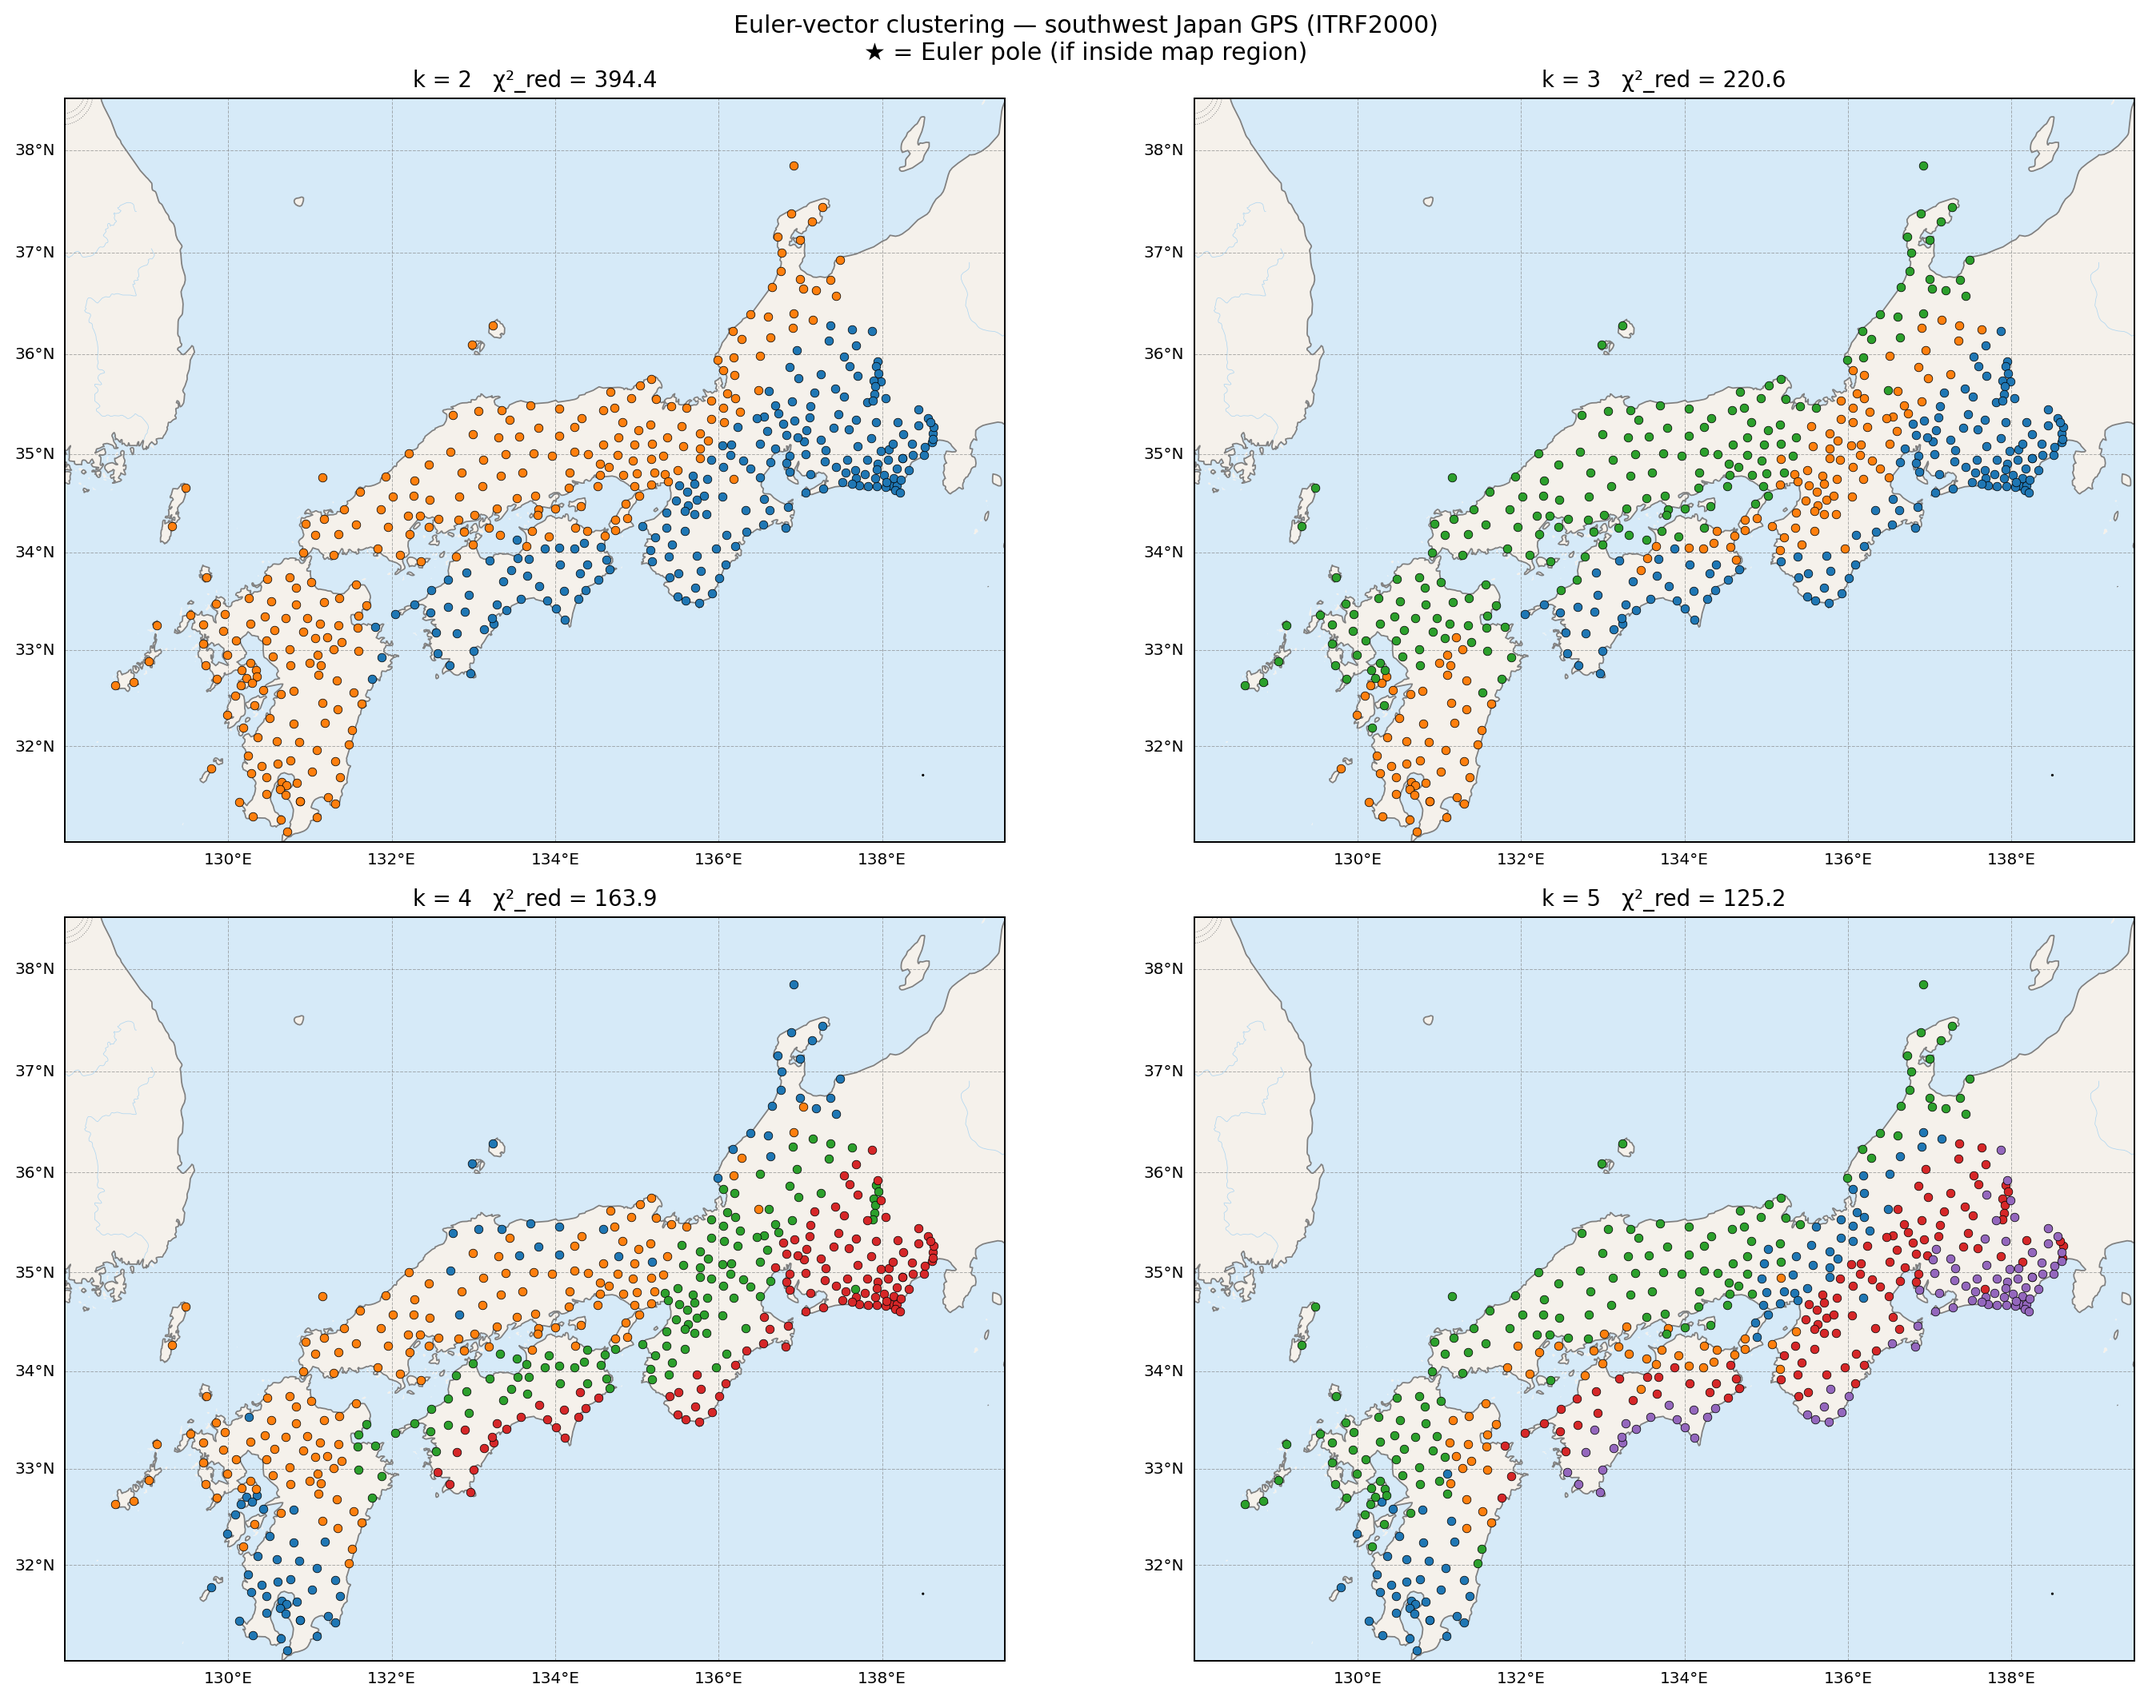
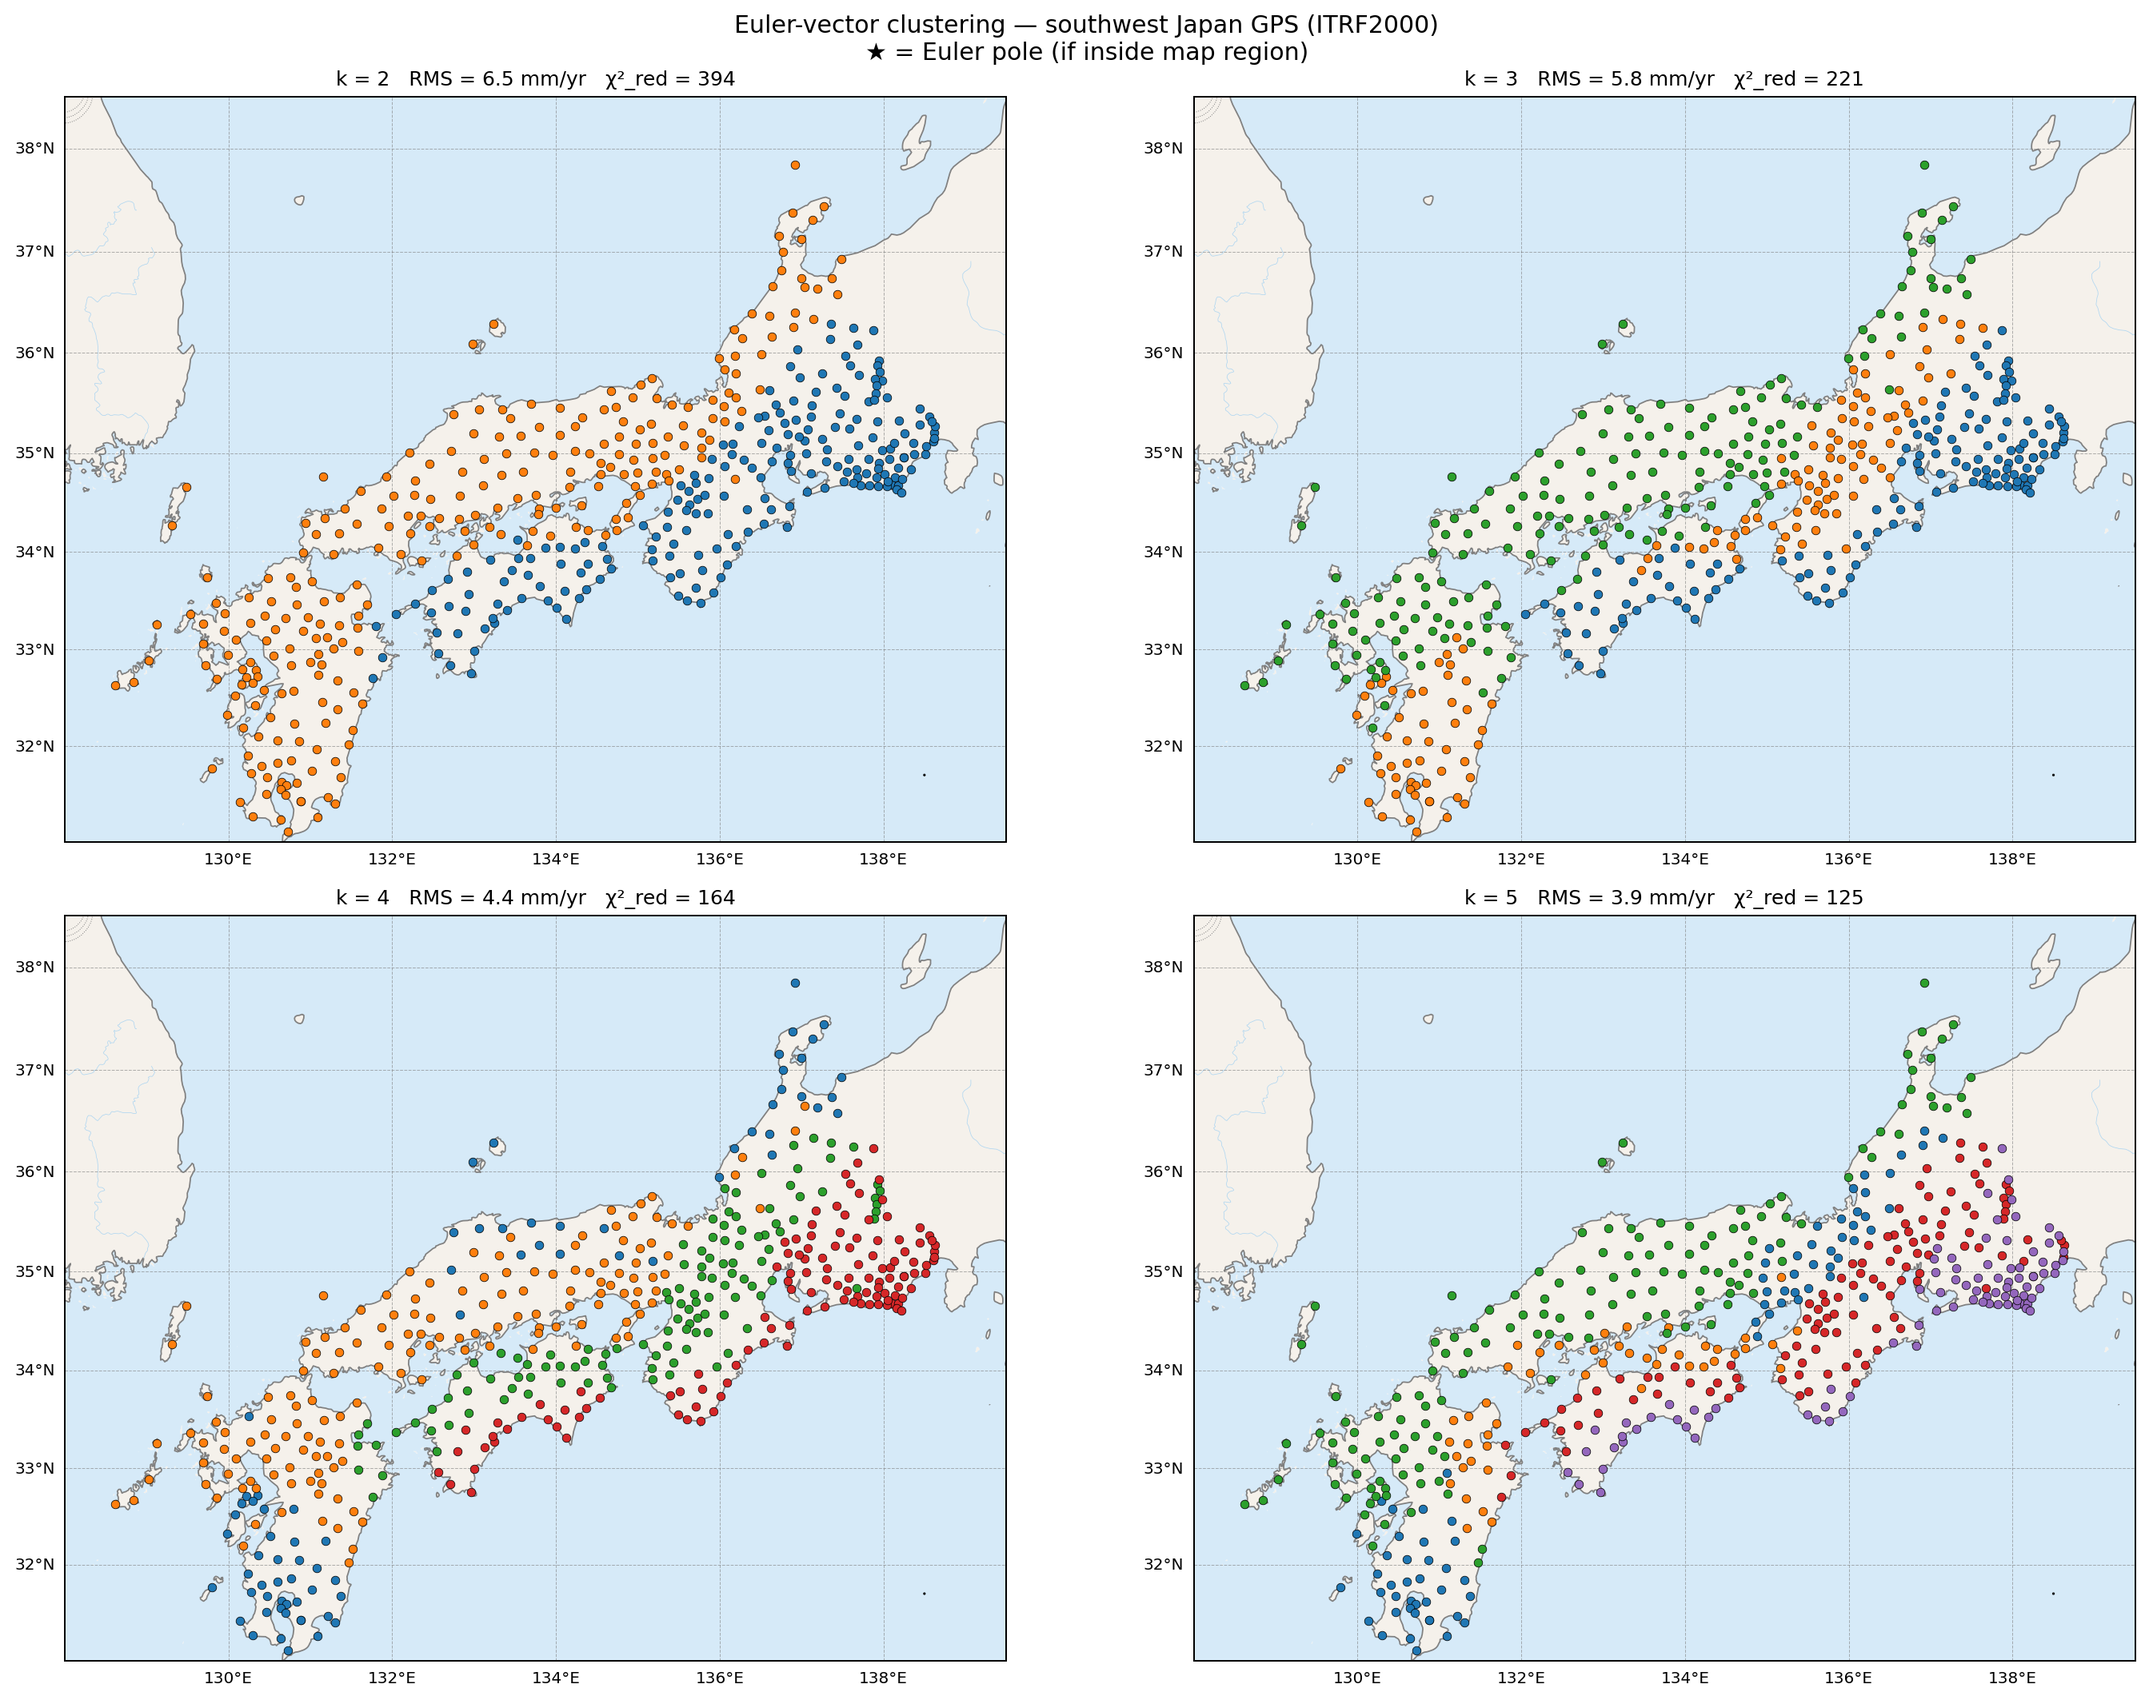
fix(plots): add RMS to model figure titles, fix residual panel
- Add _rms() helper: unweighted sqrt(mean(dVe²+dVn²)) in mm/yr
- Fig 5 title: "RMS = X.X mm/yr  χ²_red = NNN"
- Fig 6 right panel: station dots now lightgrey so residual arrows
  are visible (previously colored dots made it look identical to
  the observed panel); titles show observed RMS vs misfit RMS
- Fig 7 subplot titles: "k=N  RMS = X.X mm/yr  χ²_red = NNN"

diff --git a/scripts/plot_japan_clusters.py b/scripts/plot_japan_clusters.py
@@ -156,6 +156,18 @@ def _ref_arrow(ax, lon=138.5, lat=31.7, length=20, scale=20, label=True):
                 transform=ccrs.PlateCarree(), fontsize=7, ha="center")
 
 
+def _rms(clusters_list):
+    """RMS velocity residual in mm/yr (unweighted) across all clusters."""
+    sq = []
+    for c in clusters_list:
+        if c.euler_vector is None:
+            continue
+        for s in c.stations:
+            ve_p, vn_p = predict_velocity(s, c.euler_vector)
+            sq.append((s.velocity.ve - ve_p) ** 2 + (s.velocity.vn - vn_p) ** 2)
+    return np.sqrt(np.mean(sq)) if sq else np.nan
+
+
 def _pole_marker(ax, pole, color, label=""):
     in_extent = (EXTENT[0] <= pole.lon <= EXTENT[1] and
                  EXTENT[2] <= pole.lat <= EXTENT[3])
@@ -311,8 +323,10 @@ ax.legend(handles=legend_handles, loc="upper left", fontsize=8, framealpha=0.9)
 chi2_k3 = sum(total_chi_squared(c.stations, c.euler_vector)
               for c in clusters3 if c.euler_vector is not None)
 dof_k3  = 2 * len(stations) - 3 * 3
-ax.set_title(f"Euler-vector clustering  k = 3   χ²_red = {chi2_k3/dof_k3:.0f}\n"
-             "Southwest Japan GPS velocities (ITRF2000)", fontsize=11)
+rms_k3  = _rms(clusters3)
+ax.set_title(f"Euler-vector clustering  k = 3\n"
+             f"RMS = {rms_k3:.1f} mm/yr   χ²_red = {chi2_k3/dof_k3:.0f}",
+             fontsize=11)
 fig.tight_layout()
 fig.savefig(OUT / "fig5_clusters_k3.png", dpi=180, bbox_inches="tight")
 plt.close(fig)
@@ -323,37 +337,46 @@ plt.close(fig)
 print("Plotting Fig 6: residual velocities …")
 fig, axes = plt.subplots(1, 2, figsize=(16, 7),
                          subplot_kw={"projection": ccrs.Mercator()})
+_basemap(axes[0])
+_basemap(axes[1])
 
-for ax, clusters, title in [
-        (axes[0], clusters3, "k = 3  observed"),
-        (axes[1], clusters3, "k = 3  residuals (obs − Euler predicted)")]:
-    _basemap(ax)
-    ax.set_title(title, fontsize=10)
-
+all_dve, all_dvn = [], []
 for c in clusters3:
     col = CMAP(c.id - 1)
-    # left panel: observed
     _scatter(axes[0], c.stations, color=col, s=22)
-    _quiver(axes[0], c.stations, color=col, scale=20)
-    # right panel: residuals
+    _quiver(axes[0],  c.stations, color=col, scale=20)
+
     lons, lats, dve, dvn = [], [], [], []
     for s in c.stations:
         ve_pred, vn_pred = predict_velocity(s, c.euler_vector)
-        lons.append(s.position.lon)
-        lats.append(s.position.lat)
-        dve.append(s.velocity.ve - ve_pred)
-        dvn.append(s.velocity.vn - vn_pred)
-    _scatter(axes[1], c.stations, color=col, s=22)
-    axes[1].quiver(np.array(lons), np.array(lats), np.array(dve), np.array(dvn),
+        dve_i = s.velocity.ve - ve_pred
+        dvn_i = s.velocity.vn - vn_pred
+        lons.append(s.position.lon);  lats.append(s.position.lat)
+        dve.append(dve_i);            dvn.append(dvn_i)
+        all_dve.append(dve_i);        all_dvn.append(dvn_i)
+
+    # Right panel: neutral grey dots so residual arrows are the focus
+    axes[1].scatter(np.array(lons), np.array(lats),
+                    s=22, color="lightgrey", edgecolor="grey",
+                    linewidths=0.3, transform=ccrs.PlateCarree(), zorder=3)
+    axes[1].quiver(np.array(lons), np.array(lats),
+                   np.array(dve), np.array(dvn),
                    transform=ccrs.PlateCarree(),
                    scale=5, scale_units="xy",
                    width=0.004, headwidth=5, headlength=6,
-                   color=col, alpha=0.9, zorder=3)
+                   color=col, alpha=0.9, zorder=4)
+
+rms_obs = np.sqrt(np.mean(
+    [(s.velocity.ve**2 + s.velocity.vn**2) for c in clusters3 for s in c.stations]))
+rms_res = np.sqrt(np.mean(np.array(all_dve)**2 + np.array(all_dvn)**2))
 
 _ref_arrow(axes[0], length=20, scale=20)
 _ref_arrow(axes[1], length=5,  scale=5)
 
-fig.suptitle("Observed vs. residual velocities — Euler-vector clustering k=3",
+axes[0].set_title(f"Observed velocities  (RMS = {rms_obs:.1f} mm/yr)", fontsize=10)
+axes[1].set_title(f"Obs − Euler predicted  (RMS misfit = {rms_res:.1f} mm/yr)", fontsize=10)
+
+fig.suptitle("Euler-vector clustering k = 3 — southwest Japan GPS (ITRF2000)",
              fontsize=12)
 fig.tight_layout()
 fig.savefig(OUT / "fig6_residuals_k3.png", dpi=180, bbox_inches="tight")
@@ -380,8 +403,9 @@ for ax, k in zip(axes, [2, 3, 4, 5]):
 
     _ref_arrow(ax, label=False)
 
+    rms_k = _rms(clusters_k)
     chi2r = ftest.chi2_reduced[k - 1]
-    ax.set_title(f"k = {k}   χ²_red = {chi2r:.1f}", fontsize=11)
+    ax.set_title(f"k = {k}   RMS = {rms_k:.1f} mm/yr   χ²_red = {chi2r:.0f}", fontsize=10)
 
 fig.suptitle("Euler-vector clustering — southwest Japan GPS (ITRF2000)\n"
              "★ = Euler pole (if inside map region)", fontsize=12)
